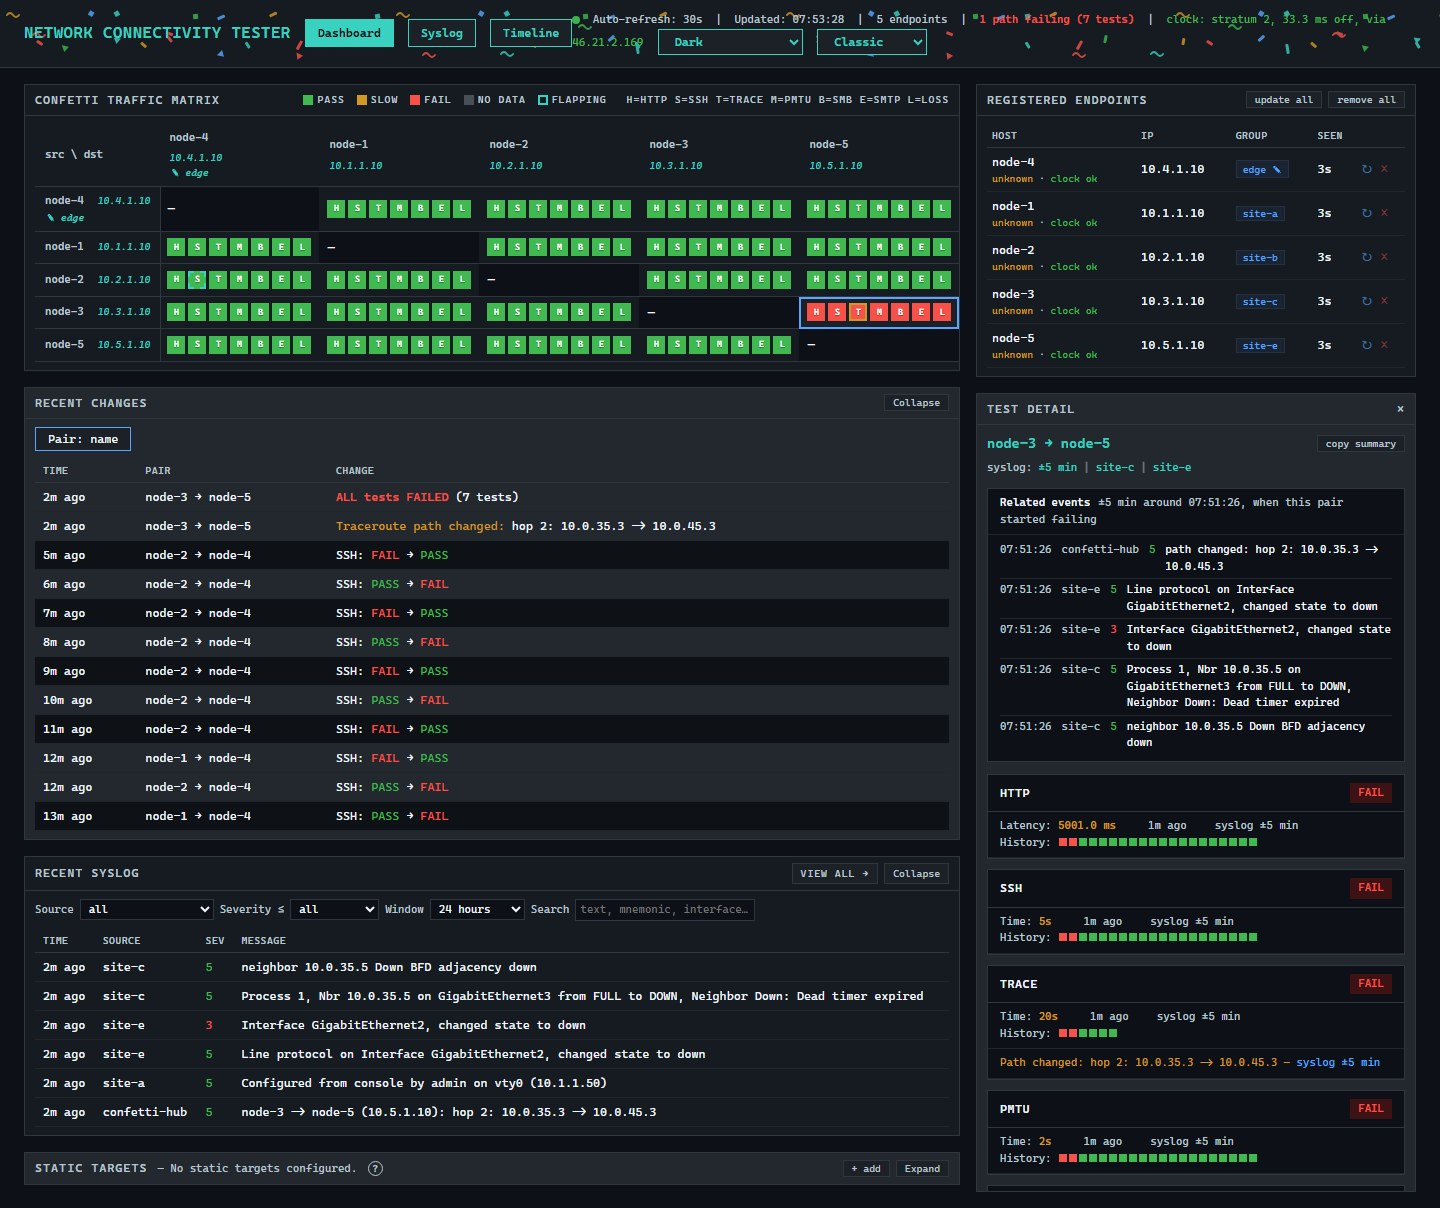
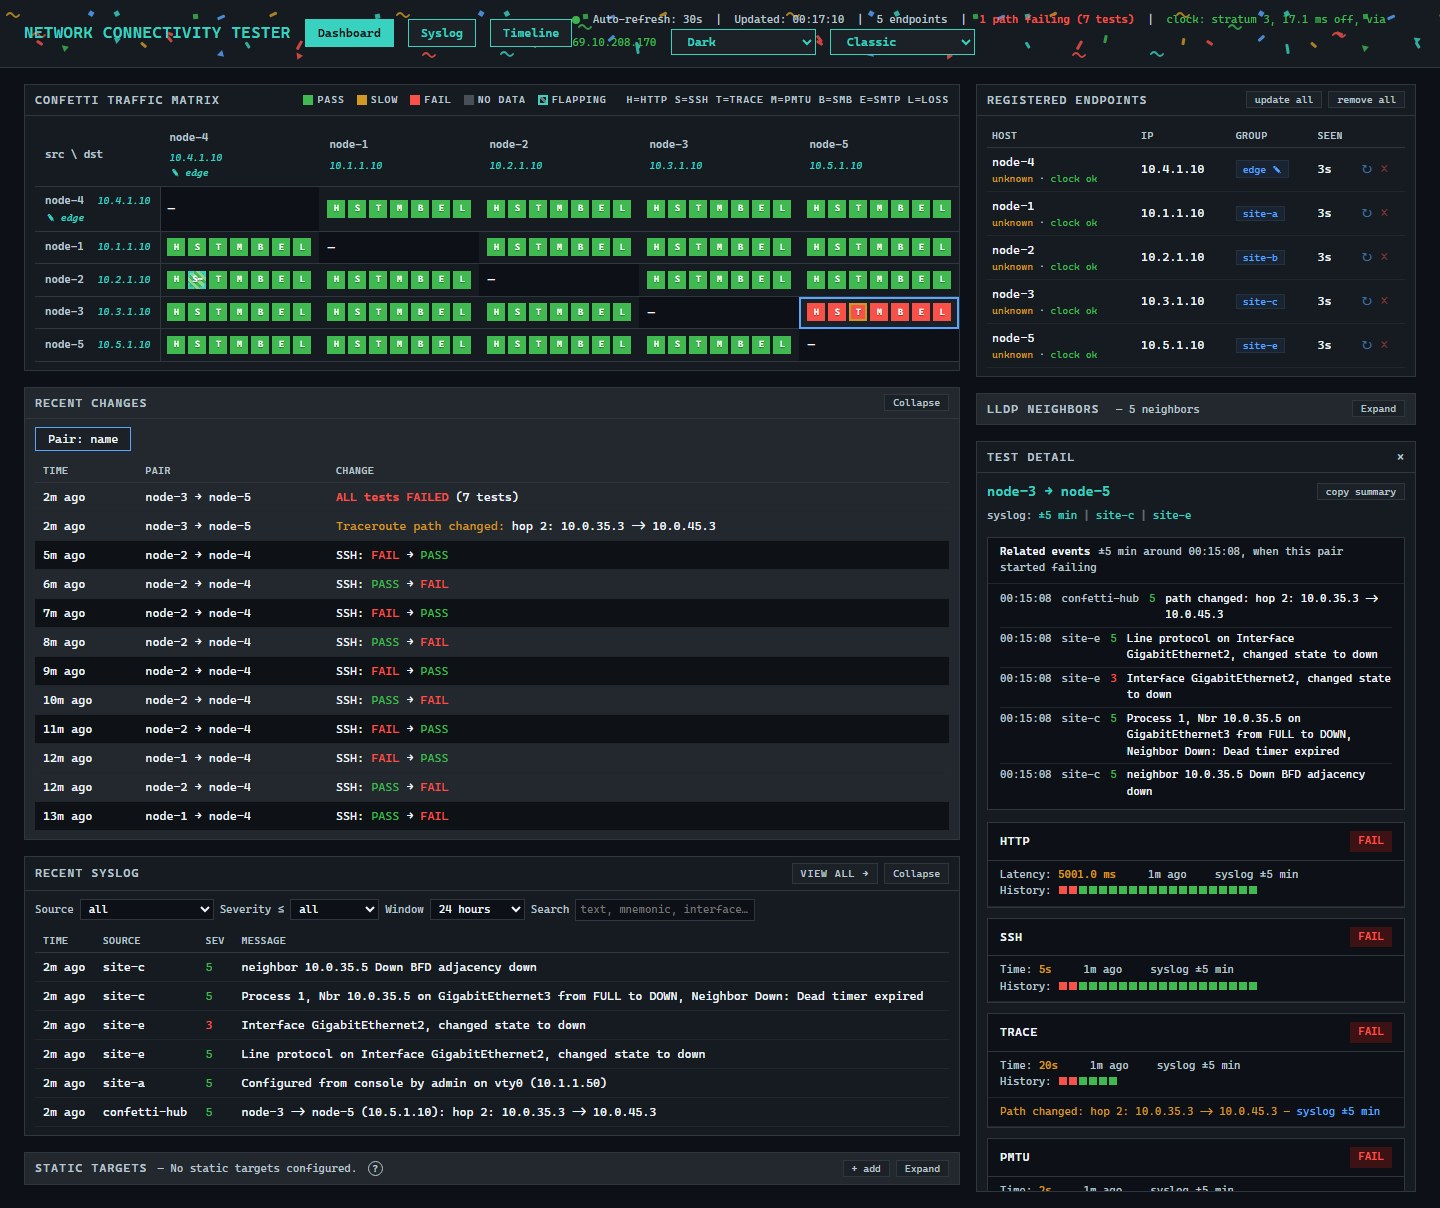
README images: flapping stripes, LLDP panel; capture seeds post LLDP and flap a pair

diff --git a/dev/capture/seed_tour.py b/dev/capture/seed_tour.py
@@ -24,6 +24,8 @@ EXCLUDE = ("branch-7", "site-b")       # one mesh rule, shown in the tour
 REROUTE_AT = 12          # dc-core <-> site-b path change
 BLIP_AT = 28             # ssh blip site-a-bf6313 -> site-b
 MTU_FROM = 44           # branch-7 <-> site-a mtu break, still failing now
+FLAP_PAIR = ("ct-site-a-xd2311", "ct-dc-core-ta5580")   # ssh fails every 2nd round 38-48, passes now
+FLAP_ROUNDS = range(38, 50, 2)
 DEVICE_LOG = {
     REROUTE_AT - 1: [
         "<189>core-sw01: %OSPF-5-ADJCHG: Process 1, Nbr 10.255.0.7 on Tunnel7 from FULL to DOWN, Neighbor Down: Interface down or detached",
@@ -62,6 +64,7 @@ def pair_state(rnd, src, dst):
     mtu = rnd >= MTU_FROM and groups == {"site-a", "branch-7"}
     rerouted = rnd >= REROUTE_AT and groups == {"dc-core", "site-b"}
     blip = rnd == BLIP_AT and (src, dst) == ("ct-site-a-bf6313", "ct-site-b-hq4971")
+    blip = blip or ((src, dst) == FLAP_PAIR and rnd in FLAP_ROUNDS)
     return mtu, rerouted, blip
 
 
@@ -105,6 +108,11 @@ def main():
                            "group_name": group, "build": "unknown", "managed": True,
                            "clock_synced": True, "clock_offset_s": -0.0012})
     post("/mesh-rules", {"group_a": EXCLUDE[0], "group_b": EXCLUDE[1]})
+    for host, _, group in NODES:
+        post("/lldp", {"source": host, "neighbors": [{
+            "local_port": "eth0", "chassis_id": "00:1b:54:%02x:00:01" % (len(group) * 7),
+            "port_id": "Gi1/0/%d" % (len(host) % 24 + 1), "port_descr": "GigabitEthernet1/0/%d" % (len(host) % 24 + 1),
+            "sys_name": "access-sw-%s" % group, "sys_descr": "Demo access switch", "mgmt_ip": "10.0.0.%d" % (len(group) + 10)}]})
     db = sqlite3.connect(DB)
     sock = socket.socket(socket.AF_INET, socket.SOCK_DGRAM)
     for rnd in range(ROUNDS):

diff --git a/dev/capture/seed_demo.py b/dev/capture/seed_demo.py
@@ -74,11 +74,21 @@ def backdate(db, table, after, minutes):
                ("-%d minutes" % minutes, after))
 
 
+def seed_lldp():
+    for i in range(1, 6):
+        post("/lldp", {"source": "node-%d" % i, "neighbors": [{
+            "local_port": "eth0", "chassis_id": "00:1b:54:00:00:%02x" % i,
+            "port_id": "Gi1/0/%d" % (i + 2), "port_descr": "GigabitEthernet1/0/%d" % (i + 2),
+            "sys_name": "access-sw%d" % ((i + 1) // 2), "sys_descr": "Demo access switch",
+            "mgmt_ip": "10.0.0.%d" % (10 + (i + 1) // 2)}]})
+
+
 def main():
     for host, ip, group in NODES:
         post("/register", {"hostname": host, "ip": ip, "subnet": ip.rsplit(".", 1)[0] + ".0/24",
                            "group_name": group, "build": "unknown", "managed": True,
                            "clock_synced": True, "clock_offset_s": -0.0012})
+    seed_lldp()
     # A group set on the hub, so the matrix header and Endpoints list show the pencil mark.
     post("/api/nodes/node-4/group", {"group": "edge"})
     db = sqlite3.connect(DB)
